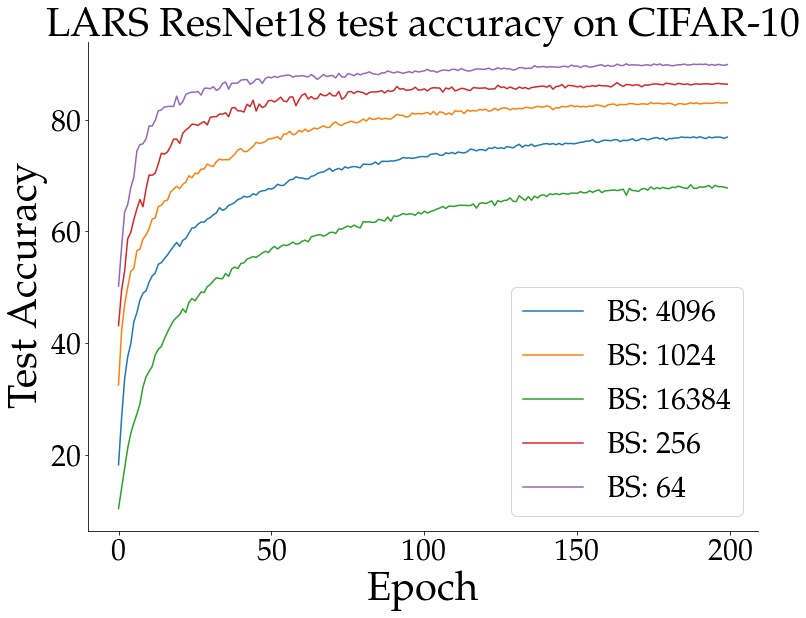
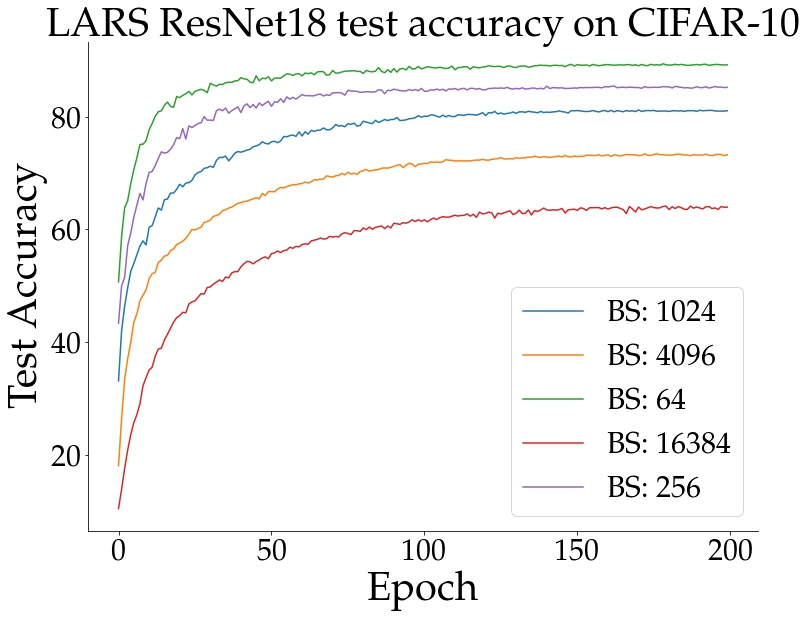
updated lars results with fixes

diff --git a/README.md b/README.md
@@ -17,10 +17,10 @@ I just tested this using a ResNet18 on CIFAR-10. I used a standard [gradient acc
 
 | Batch Size | Test Accuracy |
 | ---------- | ------------- |
-|    64      |    89.97      |
-|    256     |    86.59      |
-|    1024    |    83.05      |
-|    4096    | 76.92         |
-| 16384      | 68.33         |
+|    64      |    89.39      |
+|    256     |    85.45      |
+|    1024    |    81.2       |
+|    4096    | 73.41         |
+| 16384      | 64.13         |
 
 As a comparison, using SGD with momentum, I am able to achieve about 93.5% test accuracy in 200 epochs using a geometric decay schedule (using [this](https://github.com/kuangliu/pytorch-cifar) implementation). I have not done extensive hyperparameter tuning, though -- I used the default parameters suggested by the paper. I had a base learning rate of 0.1, 200 epochs, eta .001, momentum 0.9, weight decay of 5e-4, and the polynomial learning rate decay schedule.
